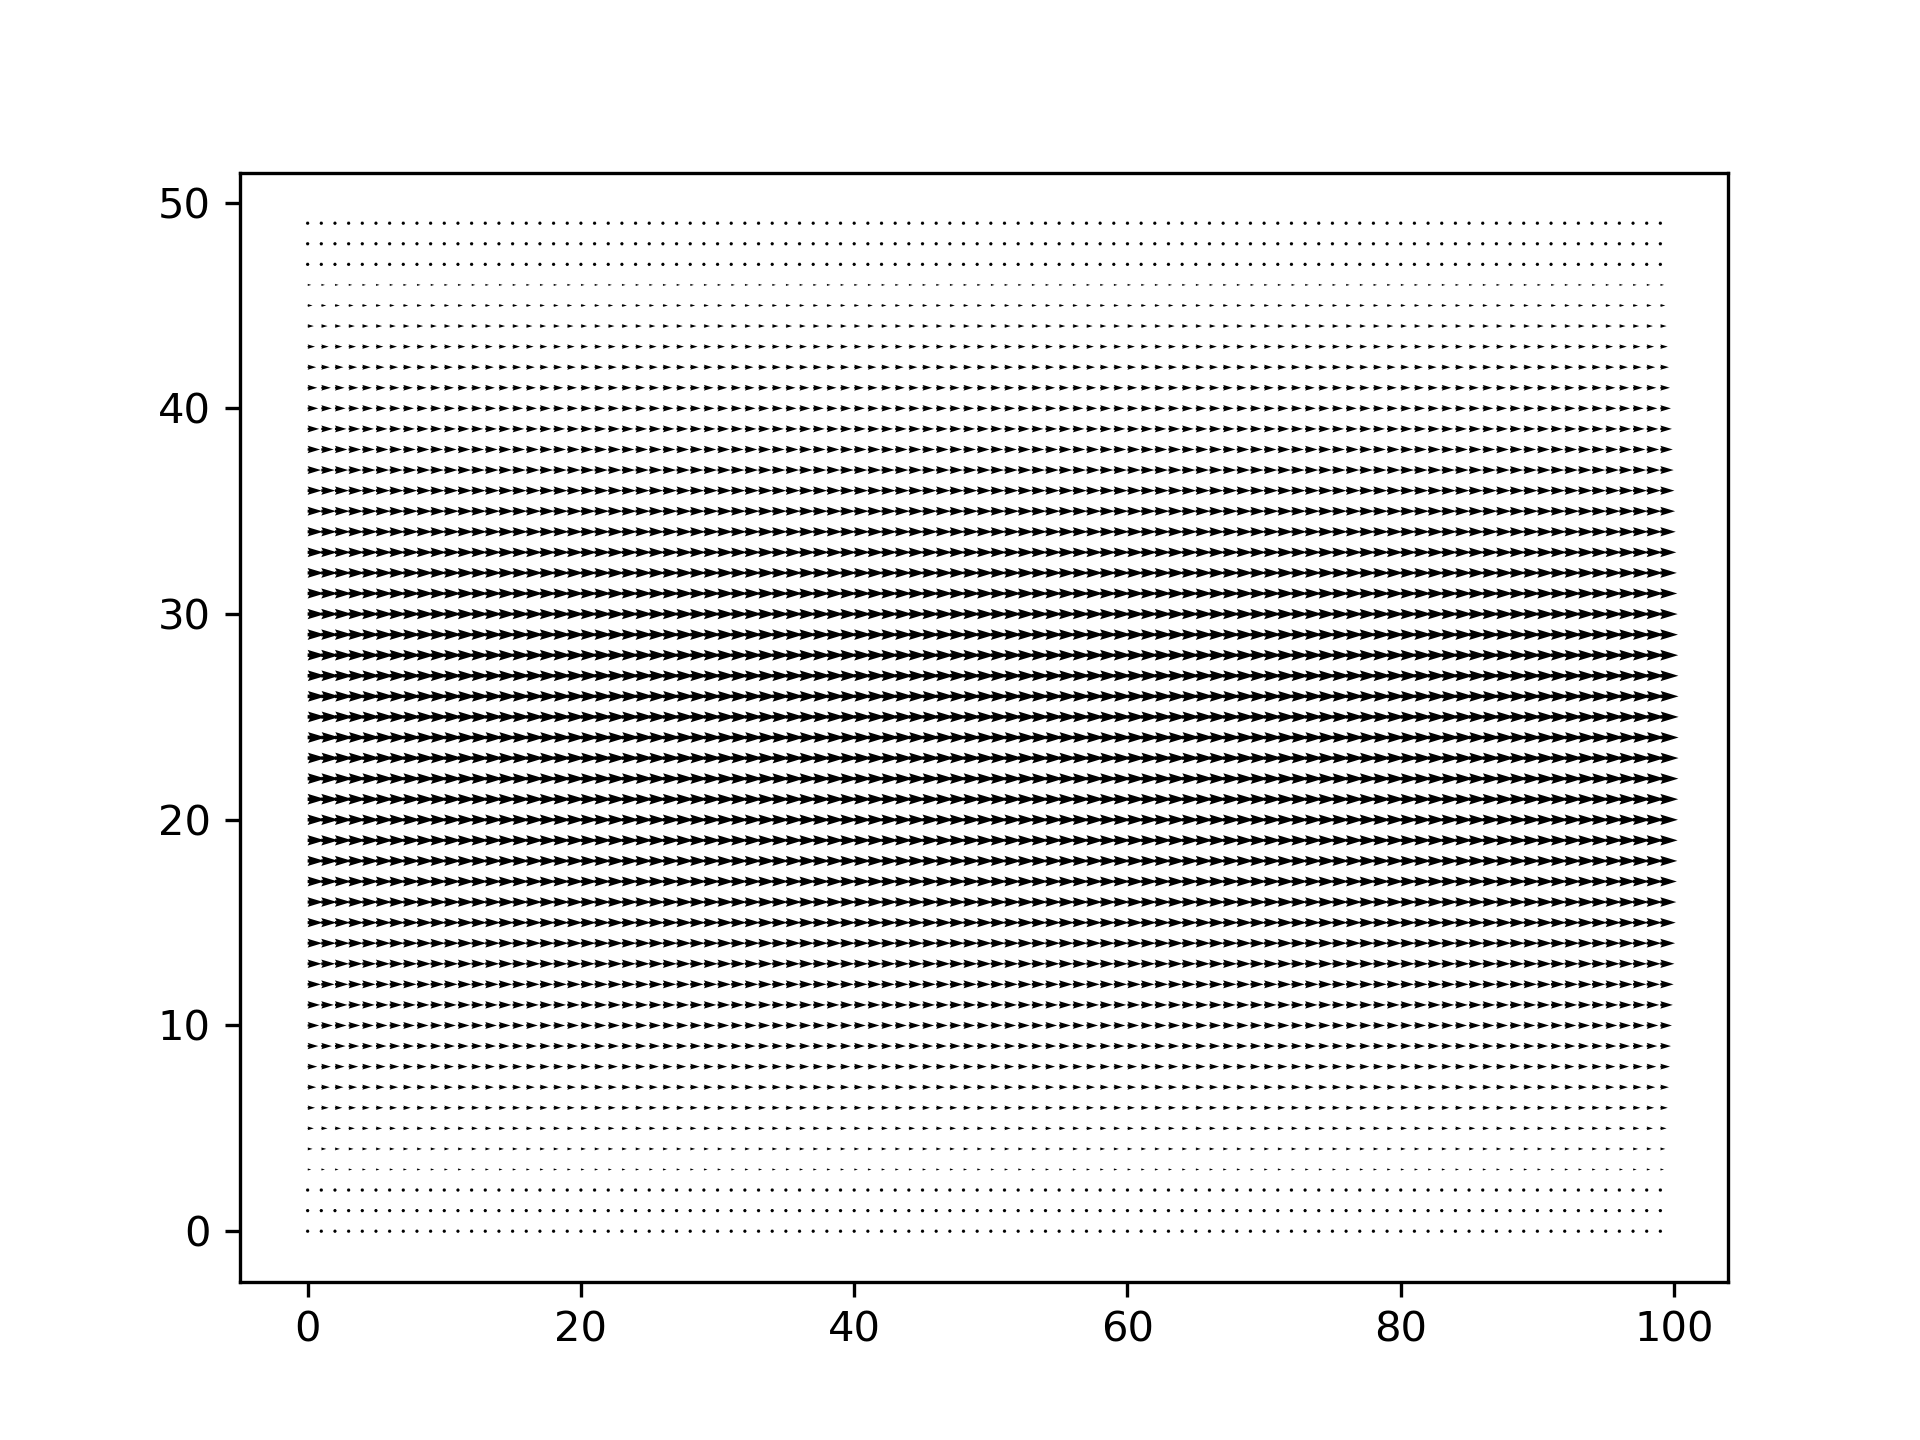
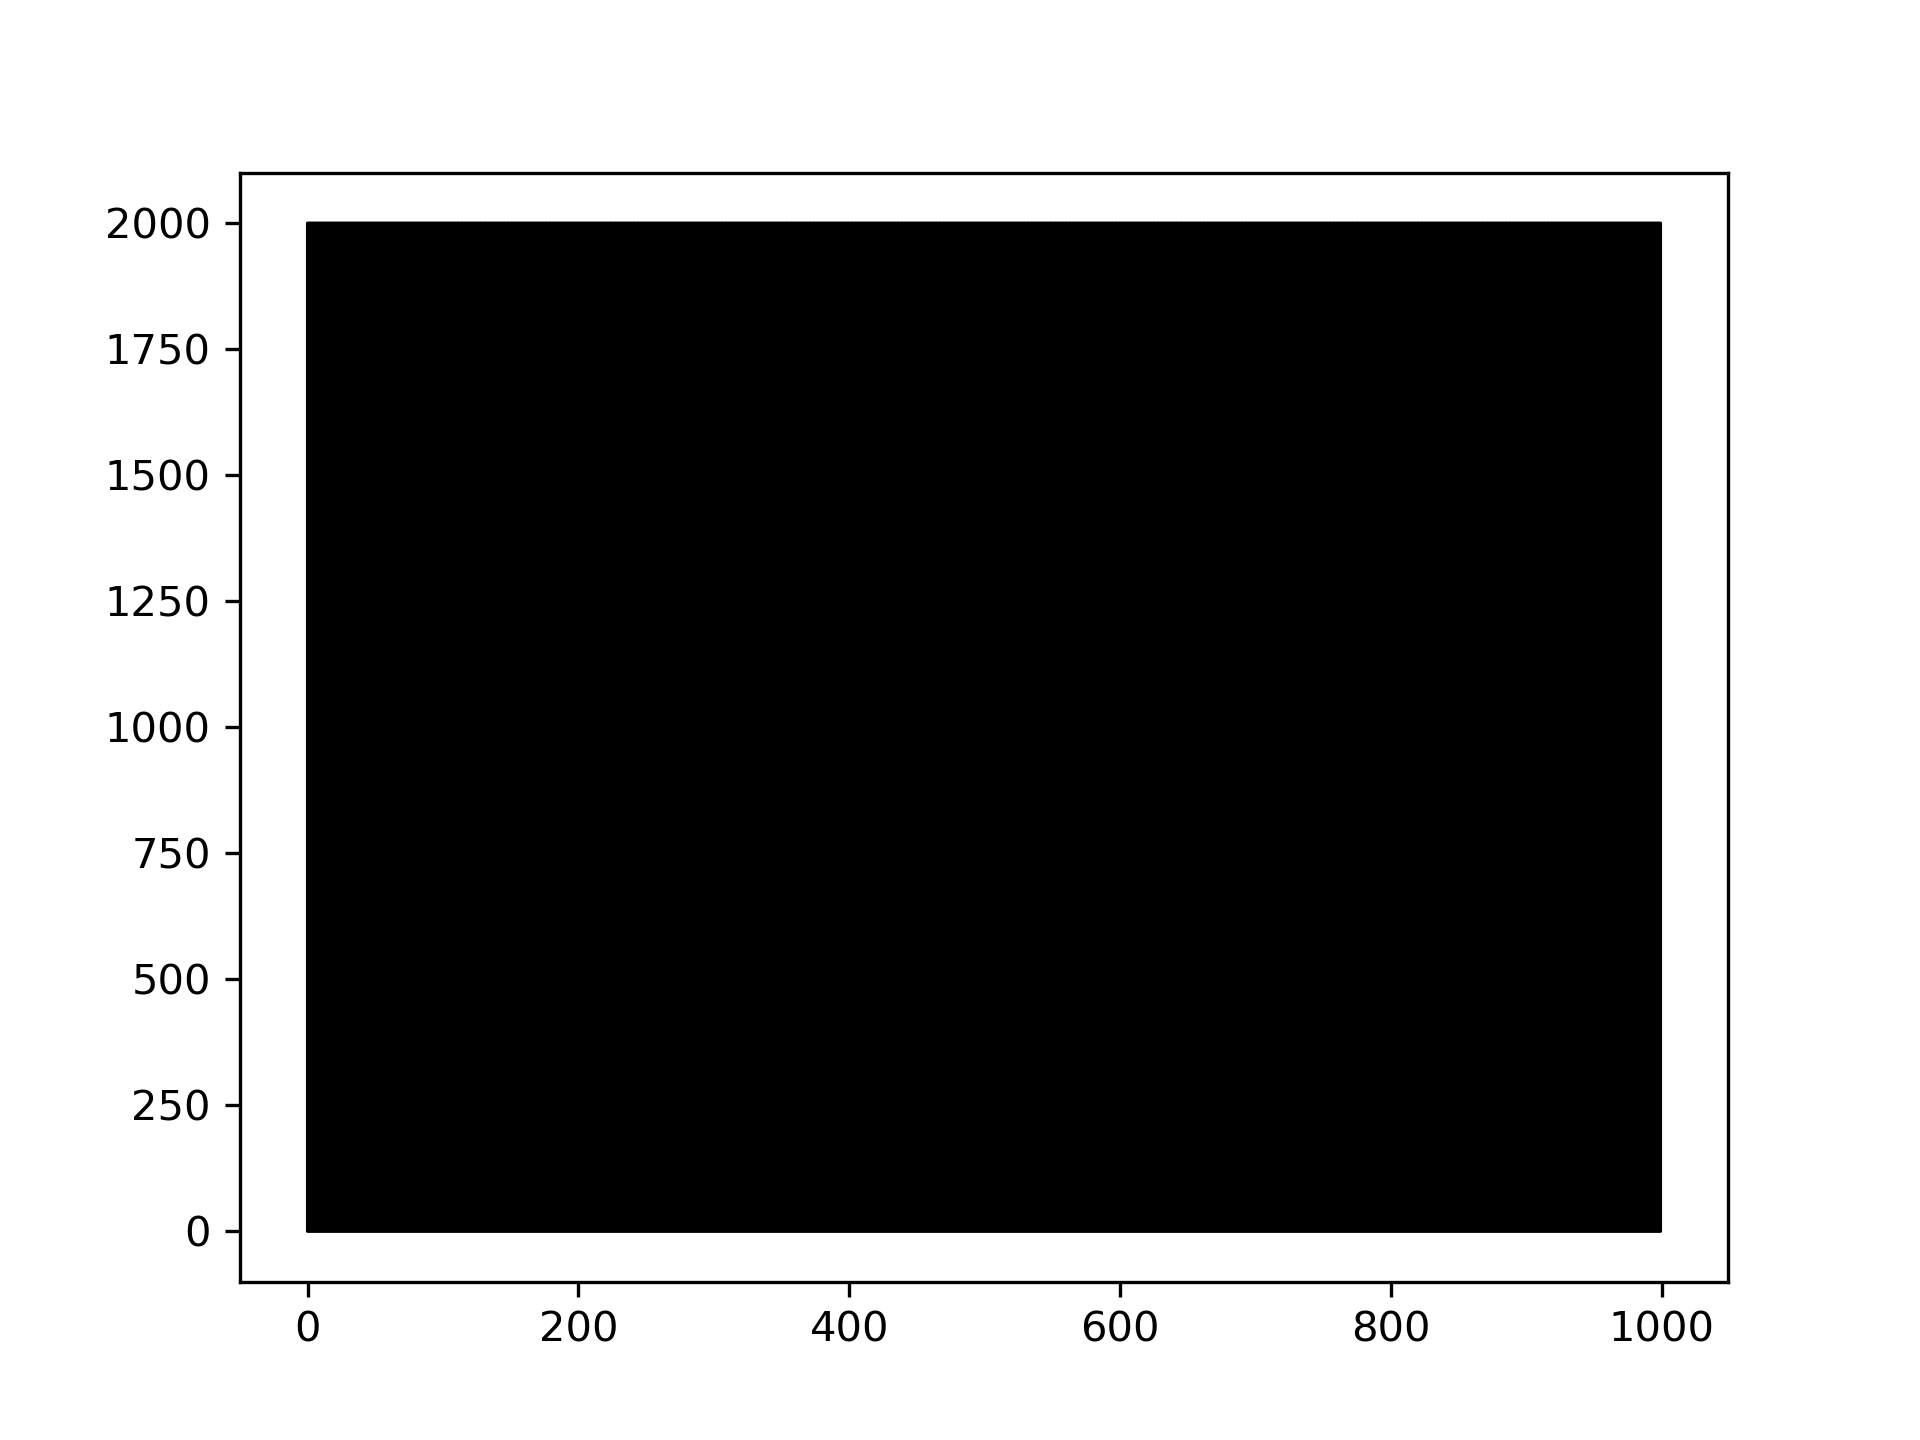
numba start

diff --git a/Cupy/cupy_gpt_single.py b/Cupy/cupy_gpt_single.py
@@ -1,0 +1,141 @@
+import cupy as cp
+import matplotlib.pyplot as plt
+
+import time  # Import at the top of your script
+
+start_time = time.time()  # Record start time
+
+def compute_macro_quantities(f, obstacles, ex, ey):
+    rho = f.sum(0)
+    fieix = f * ex[:, None, None]
+    ux = (rho / (1e-30 + rho) ** 2) * fieix.sum(0)
+    fieiy = f * ey[:, None, None]
+    uy = (rho / (1e-30 + rho) ** 2) * fieiy.sum(0)
+    
+    # Set solid node fluxes and density to zero
+    mask = (obstacles <= 0).astype(cp.float32)
+    rho *= mask
+    ux *= mask
+    uy *= mask
+    
+    return rho, ux, uy
+
+
+def equillibrium(f, rho, ux, uy, obstacles, ex, ey, es, w):
+    Termorder1  = (1. / es**2) * (ex[:, None, None] * ux + ey[:, None, None] * uy)
+    euxy        = ex[:, None, None] * ey[:, None, None] * ux * uy
+    euxx        = ex[:, None, None] * ex[:, None, None] * ux * ux
+    euyy        = ey[:, None, None] * ey[:, None, None] * uy * uy
+    eu2         = 2. * euxy + euxx + euyy
+    u2          = ux**2 + uy**2
+    Termorder2  = (0.5 / es**4) * eu2 - (0.5 / es**2) * u2
+    feq         = w[:, None, None] * rho * (1 + Termorder1 + Termorder2)
+    
+    return feq
+
+
+def collision(f, rho, ux, uy, obstacles, ex, ey, es, w, omega=cp.float32(1.0)):
+    feq = equillibrium(f, rho, ux, uy, obstacles, ex, ey, es, w)
+    f = (1. - omega) * f + omega * feq
+    f *= (obstacles <= 0).astype(cp.float32)  # Mask solid nodes
+    return f
+
+
+def propogation(f, ex, ey, obstacles):
+    ex = ex.astype(cp.int32)
+    ey = ey.astype(cp.int32)
+    solid_node_in_path = cp.zeros(f.shape, dtype=cp.float32)
+    fc_bb = cp.zeros(f.shape, dtype=cp.float32)
+    solid_node_exist = (obstacles > 0).astype(cp.float32)
+    idx = cp.array([0, 3, 4, 1, 2, 7, 8, 5, 6], dtype=cp.int32)        
+
+    # See if solid node exists on propagation path
+    for j in range(9):
+        solid_node_in_path[idx[j]] = solid_node_exist.copy()
+        solid_node_in_path[idx[j]] = cp.roll(solid_node_in_path[idx[j]], -ex[j], axis=1)
+        solid_node_in_path[idx[j]] = cp.roll(solid_node_in_path[idx[j]], ey[j], axis=0)    
+
+    f_propogation = f.copy()
+    for j in range(9):
+        # Bounce-back
+        fc_bb[idx[j]] = f[j].copy()
+        # Propagation
+        f_propogation[j] = cp.roll(f_propogation[j], ex[j], axis=1)
+        f_propogation[j] = cp.roll(f_propogation[j], -ey[j], axis=0)
+        f = f_propogation * (solid_node_in_path == 0.) + fc_bb * (solid_node_in_path == 1.)        
+
+    return f
+
+
+def apply_forcing(rho, ux, uy, fx=cp.float32(0), fy=cp.float32(0), omega=cp.float32(1.0)):
+    ux += (fx * rho) / ((rho + 1e-17) ** 2 * omega)
+    uy += (fy * rho) / ((rho + 1e-17) ** 2 * omega)
+    return ux, uy
+
+
+def test_lb():
+
+
+    # Track memory before execution
+    free_mem, total_mem = cp.cuda.runtime.memGetInfo()
+    print(f"Before execution: Free GPU memory: {free_mem / 1e6:.2f} MB out of {total_mem / 1e6:.2f} MB")
+    
+    lx = 1000
+    ly = 2000
+    ts = 500000
+    gx = cp.float32(1e-6)
+
+    # Initialize problem setup
+    rowlength = ly
+    collength = lx
+    rho = cp.zeros((rowlength, collength), dtype=cp.float32)
+    ux = cp.zeros((rowlength, collength), dtype=cp.float32)
+    uy = cp.zeros((rowlength, collength), dtype=cp.float32)
+    obstacles = cp.zeros((rowlength, collength), dtype=cp.float32)
+    obstacles[0, :] = 1
+    obstacles[-1, :] = 1
+
+    f = cp.zeros((9, rowlength, collength), dtype=cp.float32)
+    f[1:5, :, :] = cp.float32(1./9.)
+    f[5:9, :, :] = cp.float32(1./36.)
+    f[0, :, :] = cp.float32(4./9.) 
+
+    ex = cp.array([0, 1, 0, -1, 0, 1, -1, -1, 1], dtype=cp.float32)
+    ey = cp.array([0, 0, 1, 0, -1, 1, 1, -1, -1], dtype=cp.float32)
+    es = cp.float32(1. / 3.**0.5)
+    w = cp.array([4./9., 1./9., 1./9., 1./9., 1./9., 1./36., 1./36., 1./36., 1./36.], dtype=cp.float32)
+
+    for t in range(ts):
+        # Compute macro quantities
+        rho, ux, uy = compute_macro_quantities(f, obstacles, ex, ey)   
+
+        # Apply forcing
+        ux, uy = apply_forcing(rho, ux, uy, fx=gx)
+
+        # Collide
+        f = collision(f, rho, ux, uy, obstacles, ex, ey, es, w)
+
+        # Stream
+        f = propogation(f, ex, ey, obstacles)
+
+    # Track memory after execution
+    free_mem, total_mem = cp.cuda.runtime.memGetInfo()
+    print(f"After execution: Free GPU memory: {free_mem / 1e6:.2f} MB out of {total_mem / 1e6:.2f} MB")
+
+    end_time = time.time()  # Record end time
+    elapsed_time = end_time - start_time  # Compute elapsed time
+
+    print("MLUPS: " ,(lx*ly*ts*1e-6)/elapsed_time)
+    # Move data back to CPU for visualization
+    plt.figure(1)
+    plt.quiver(ux.get(), uy.get())  # Convert to NumPy before plotting
+    plt.savefig("velocity_field.png", dpi=300)
+
+    # Plot velocity profile
+    ulb = ux[:, int(lx/2)].get()  # Convert to NumPy before plotting
+    plt.figure(2)
+    plt.plot(ulb)
+    plt.savefig("velocity_profile.png", dpi=300)
+
+
+test_lb()

diff --git a/Numba/test01.py b/Numba/test01.py
@@ -1,0 +1,25 @@
+import numpy as np
+from numba import cuda
+
+@cuda.jit
+def add_kernel_2d(d_arr, val):
+    row, col = cuda.grid(2)  # Get the thread indices for 2D
+    if row < d_arr.shape[0] and col < d_arr.shape[1]:  # Ensure within bounds
+        d_arr[row, col] += val
+
+# Initialize a 2D array
+arr = np.arange(12, dtype=np.float32).reshape(3, 4)  # Shape (3, 4)
+d_arr = cuda.to_device(arr)  # Copy data to GPU
+
+# Define grid and block size for 2D
+threads_per_block = (16, 16)  # 16x16 block
+blocks_per_grid_x = (arr.shape[0] + threads_per_block[0] - 1) // threads_per_block[0]
+blocks_per_grid_y = (arr.shape[1] + threads_per_block[1] - 1) // threads_per_block[1]
+blocks_per_grid = (blocks_per_grid_x, blocks_per_grid_y)
+
+# Run the kernel
+add_kernel_2d[blocks_per_grid, threads_per_block](d_arr, 5.0)
+
+# Copy result back to CPU
+result = d_arr.copy_to_host()
+print(result)

diff --git a/Cupy/cupy_gpt.py b/Cupy/cupy_gpt.py
@@ -1,6 +1,9 @@
 import cupy as cp
 import matplotlib.pyplot as plt
 
+import time  # Import at the top of your script
+
+start_time = time.time()  # Record start time
 
 def compute_macro_quantities(f, obstacles, ex, ey):
     rho = f.sum(0)
@@ -70,8 +73,8 @@ def apply_forcing(rho, ux, uy, fx=0, fy=0, omega=1):
 
 
 def test_lb():
-    lx = 100
-    ly = 50
+    lx = 2000
+    ly = 2000
     ts = 15000
     gx = 1e-4
 
@@ -109,6 +112,11 @@ def test_lb():
         f = propogation(f, ex, ey, obstacles)
 
     # Move data back to CPU for visualization
+
+    end_time = time.time()  # Record end time
+    elapsed_time = end_time - start_time  # Compute elapsed time
+
+    print("MLUPS: " (lx*ly*ts*1e-6)/elapsed_time)
     plt.figure(1)
     plt.quiver(ux.get(), uy.get())  # Convert to NumPy before plotting
     plt.savefig("velocity_field.png", dpi=300)

diff --git a/Numba/test.py b/Numba/test.py
@@ -1,0 +1,26 @@
+import numpy as np
+from numba import cuda
+
+@cuda.jit
+def add_kernel(d_arr, val):
+    idx = cuda.grid(1)  # Get the absolute thread index
+    if idx < d_arr.size:  # Ensure within bounds
+        d_arr[idx] += val
+
+# Initialize data
+arr = np.arange(100, dtype=np.float32)
+d_arr = cuda.to_device(arr)  # Copy data to GPU
+
+# Define grid and block size
+threads_per_block = 128
+blocks_per_grid = (arr.size + threads_per_block - 1) // threads_per_block
+
+# Run the kernel
+add_kernel[blocks_per_grid, threads_per_block](d_arr, 5.0)
+
+# Copy result back to CPU
+result = d_arr.copy_to_host()
+print(result)
+
+
+
